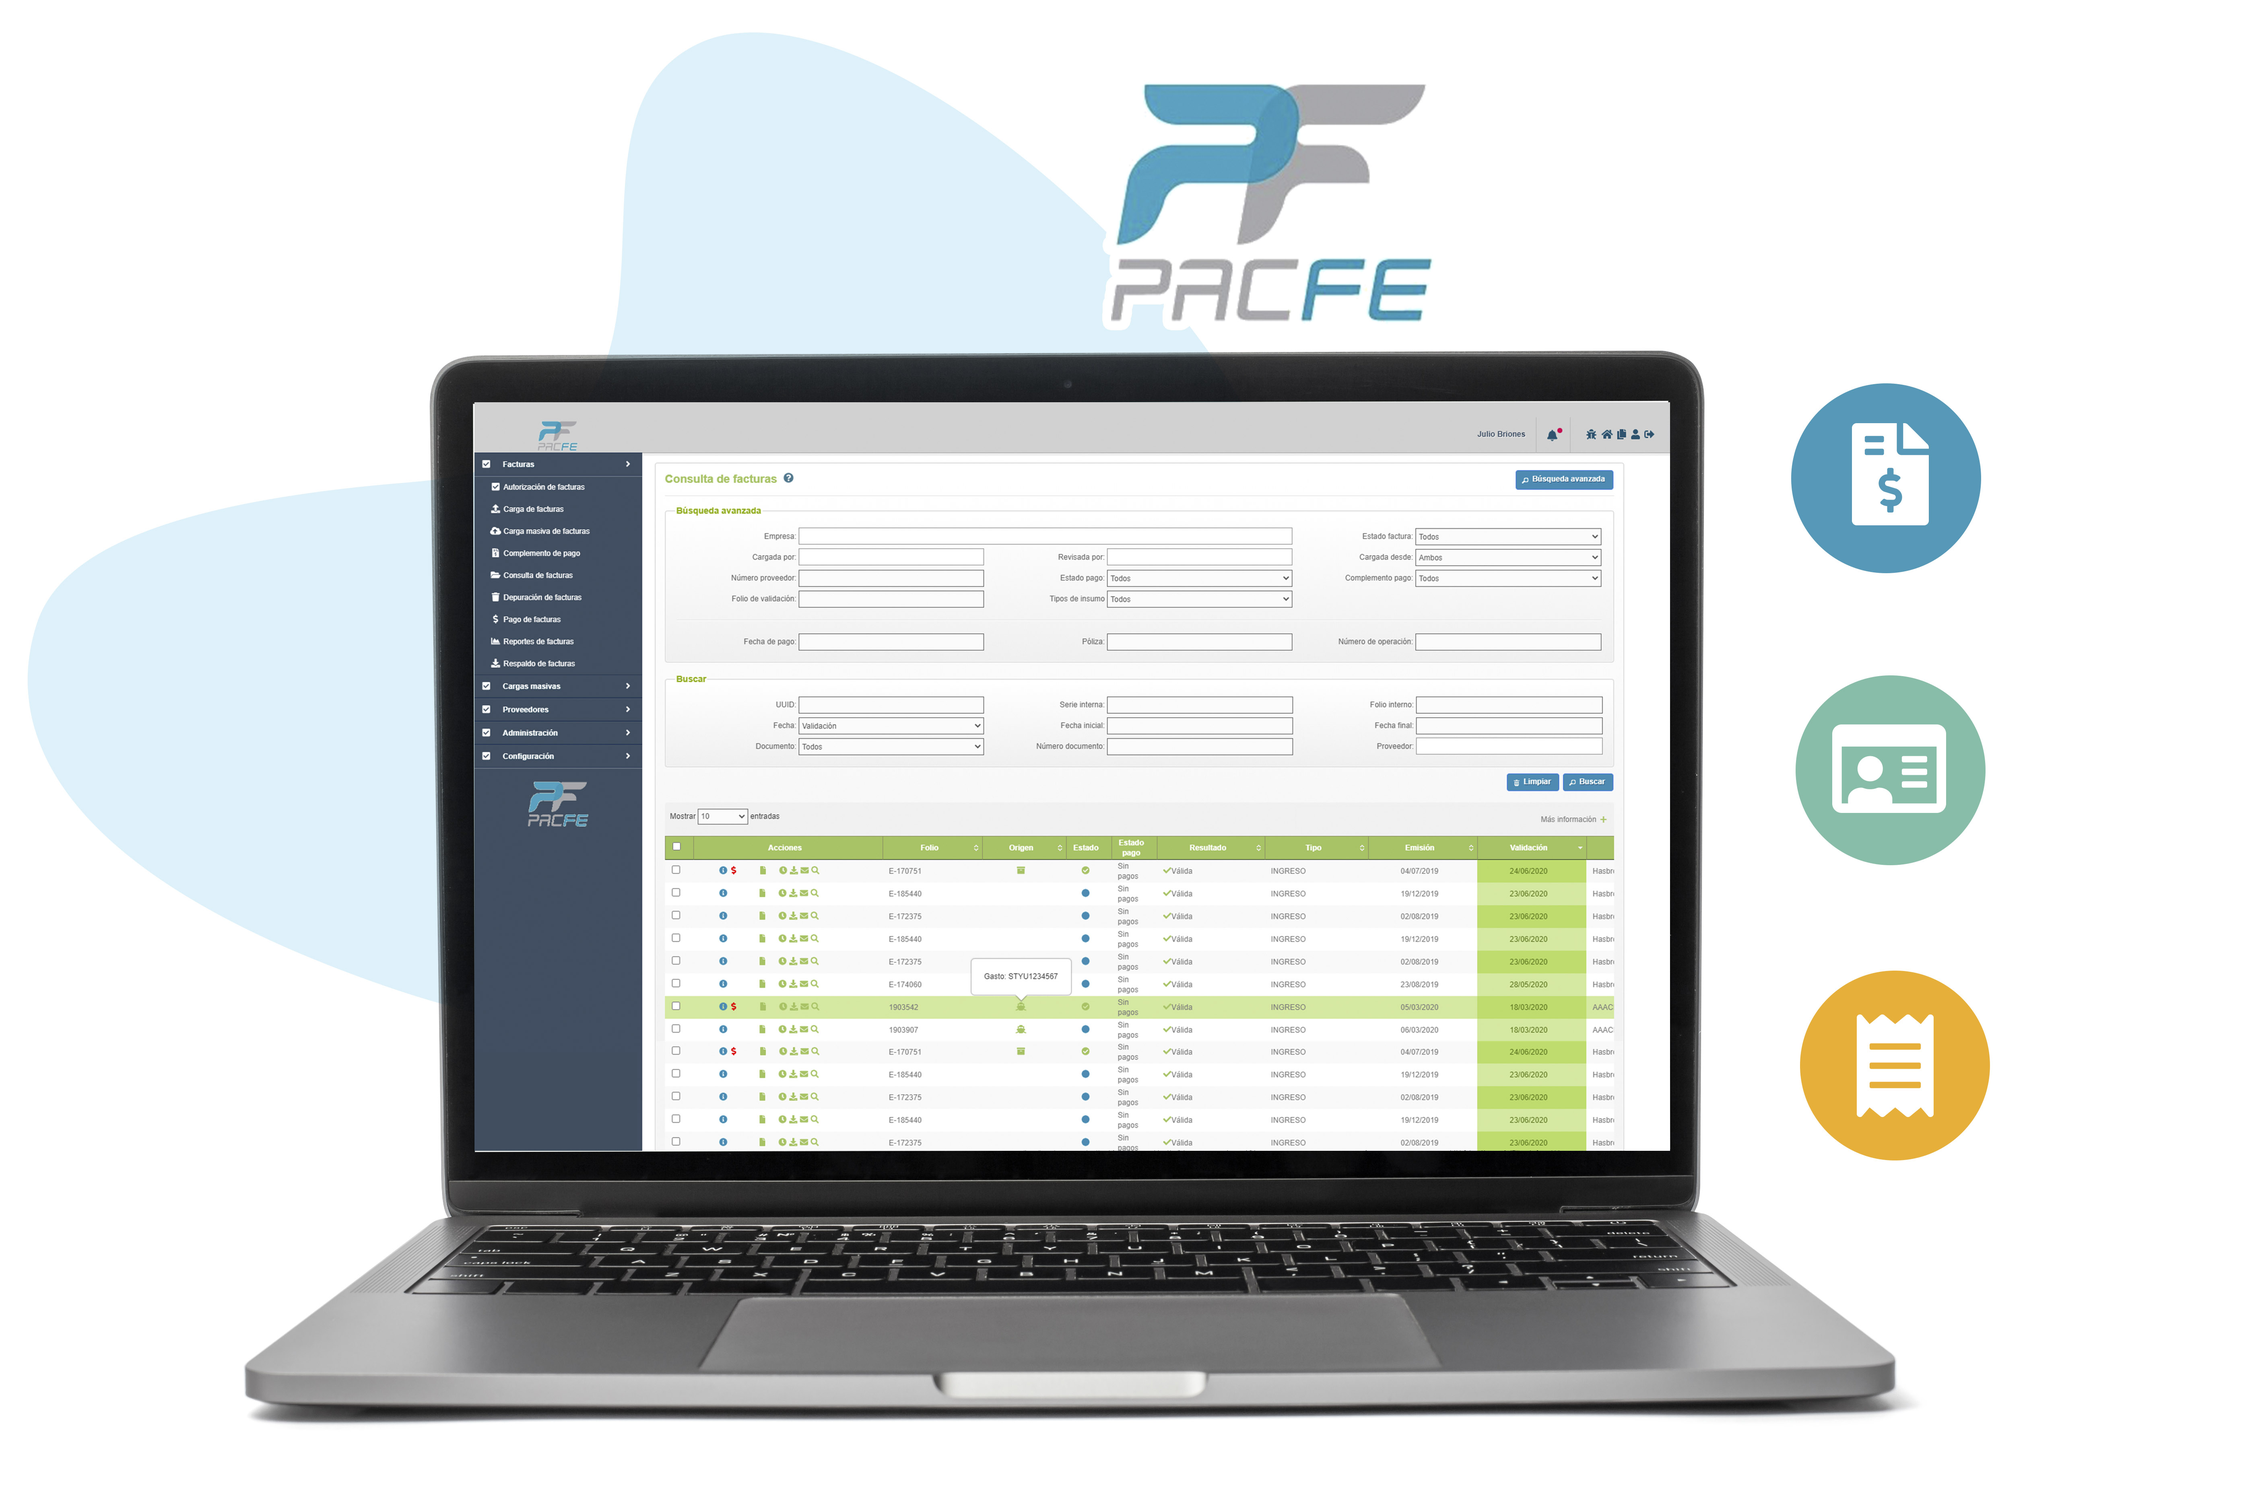
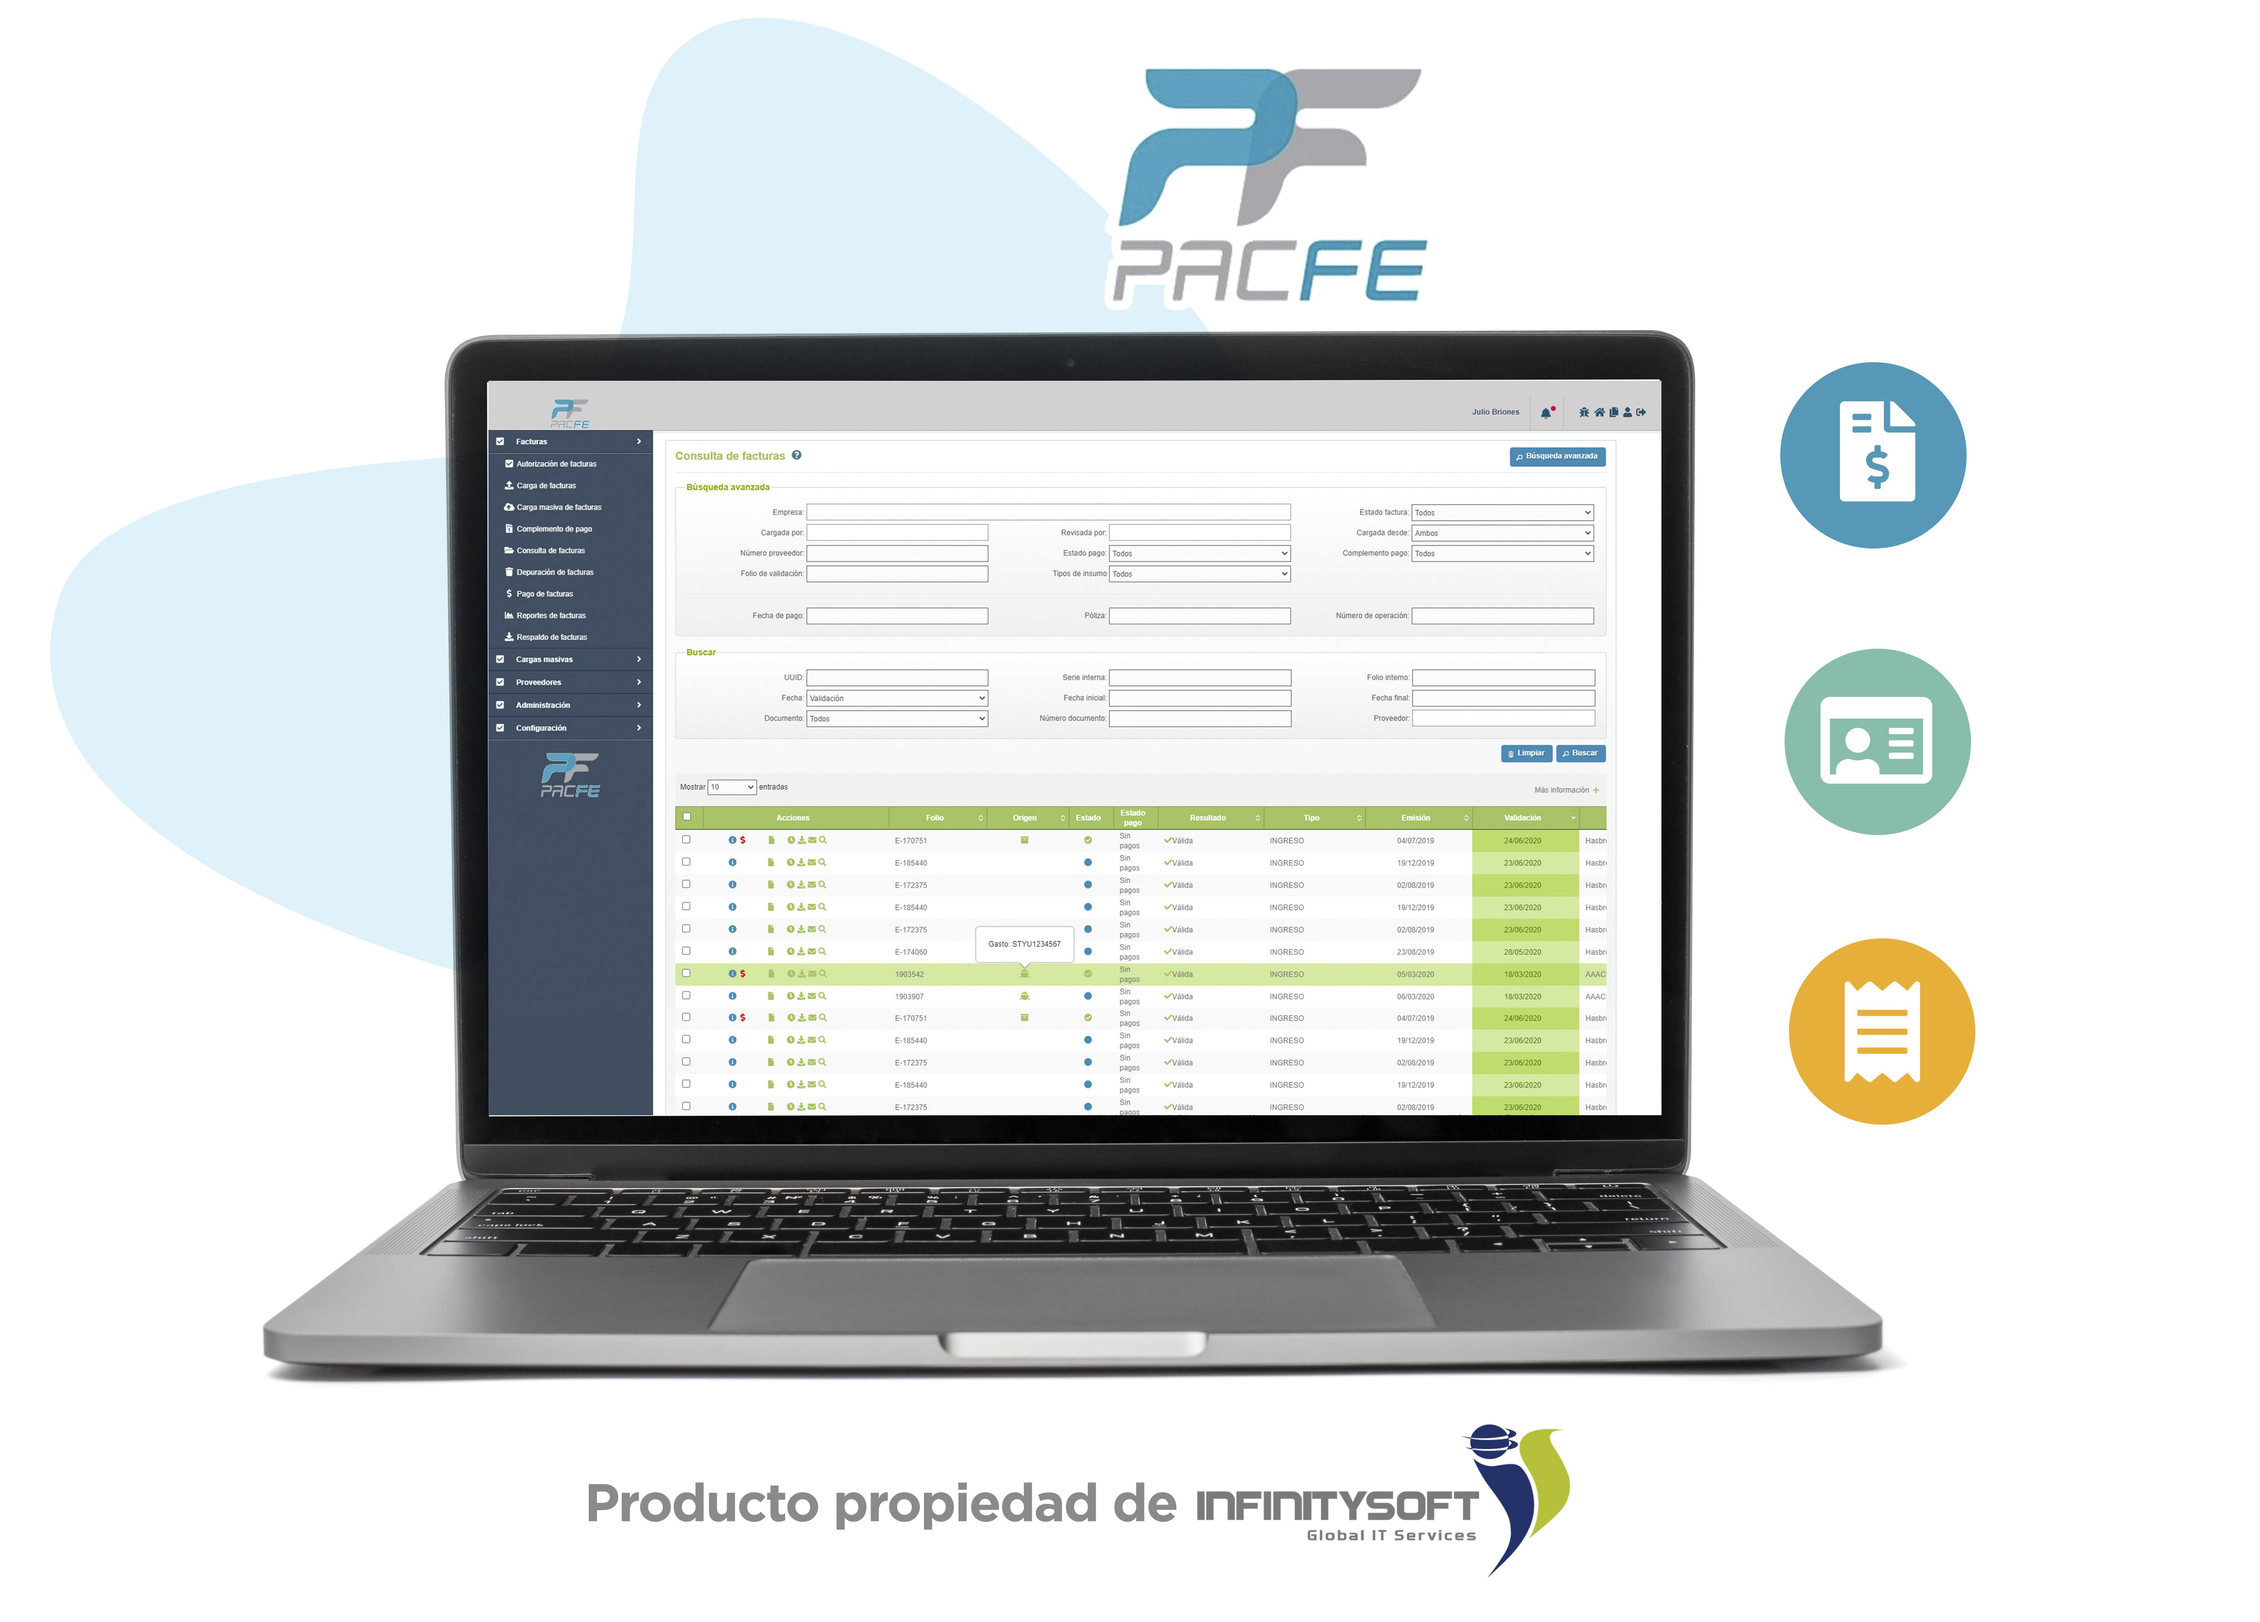
Actualización - Pacfe
Se agregó la leyenda de: Producto propiedad de Infinitysoft en las imágenes de PACFE

diff --git a/index.html b/index.html
@@ -95,7 +95,7 @@
 				<p style="font-weight:500; text-align:center;text-shadow: 1px 1px 2px rgba(0, 0, 0, 0.2);width:500px; font-family:'Montserrat', sans-serif; font-size:16px; line-height:50px; color:#ffffff; top:32%; left:50%; white-space:normal;" class="ls-l ls-hide-phone" data-ls="offsetyin:40; delayin:500; easingin:easeOutQuint; offsetyout:-200; durationin:1500; durationout:400; parallax:false; parallaxlevel:4;">PROYECTAMOS HACIA EL FUTURO </p>
 				<p style="font-weight:400; text-align:center;text-shadow: 1px 1px 2px rgba(0, 0, 0, 0.4);width:720px; font-family:'Montserrat', sans-serif; font-size:17px; line-height:30px; color:#ffffff; top:50%; left:50%; white-space:normal;" class="ls-l ls-hide-phone" data-ls="offsetyin:40; delayin:1800; easingin:easeOutQuint; offsetyout:-250; durationin:1500; durationout:400; parallax:false; parallaxlevel:2;">Trabajamos contigo para cumplir tus metas con soluciones de software a tu medida.</p>
 				<a style="" class="ls-l ls-hide-phone" href="servicios.html" target="_self" data-ls="offsetyin:40; delayin:2600; easingin:easeOutQuint; offsetyout:-300; durationin:1500; durationout:400; hover:true; hoverdurationin:300; hoveropacity:1; hoverbgcolor:#ffffff; hovercolor:#444444; parallax:false; parallaxlevel:1;">
-					<p style="font-weight:500; text-align:center;cursor:pointer;padding-right:35px; padding-left:35px; font-family:'Montserrat', sans-serif; font-size:15px; line-height:30px; top:60%; left:50%; border-top:2px solid #fff; border-right:2px solid #fff; border-bottom:2px solid #fff; border-left:2px solid #fff; color:#ffffff; border-radius:2px; padding-top:12px; padding-bottom:10px; background:rgba(0, 0, 0, 0.1); white-space:normal;" class="">Ver nuestro servicios</p>
+					<p style="font-weight:500; text-align:center;cursor:pointer;padding-right:35px; padding-left:35px; font-family:'Montserrat', sans-serif; font-size:15px; line-height:30px; top:60%; left:50%; border-top:2px solid #fff; border-right:2px solid #fff; border-bottom:2px solid #fff; border-left:2px solid #fff; color:#ffffff; border-radius:2px; padding-top:12px; padding-bottom:10px; background:rgba(0, 0, 0, 0.1); white-space:normal;" class="">Ver nuestros servicios</p>
 				</a>
 			</div>
 			<!-- Slide 3
@@ -234,7 +234,8 @@
 					</div>
 					<div class="col-lg-7 wow fadeIn" data-wow-delay="100ms" data-wow-duration="1000ms">
 						<!--<img class="mb-2" src="assets/images/rocket.png" alt="">-->
-						<h3 class="down-line mb-30">PACFE</h3>
+						<h3>PACFE</h3>
+						<p class="down-line mb-30 text-primary">Distribuidor autorizado</p>
 						<h5>Sector financiero y de contabilidad</h5>
 						<p>PACFE es una ventanilla virtual de recepción de facturas que gestiona la carga masiva, validación y aprobación de facturas electrónicas y complementos de pago. Con este portal puedes automatizar la recepción de facturas de tus proveedores. PACFE opera conforme al artículo 69 B del Código Fiscal de la Federación.</p>
 						<div class="col-12 jd-padding0">

diff --git a/prod/pacfe.html b/prod/pacfe.html
@@ -206,9 +206,6 @@
 								</div>
 							</div>
 						</div>
-						<div class="col-lg-12 mb-4">
-							<span class="text-gray">Distribuidores autorizados de esta herramienta propiedad de Infinitysoft.</span>
-						</div>
 					</div>
 				</div>
 				<div class="col-lg-4">
